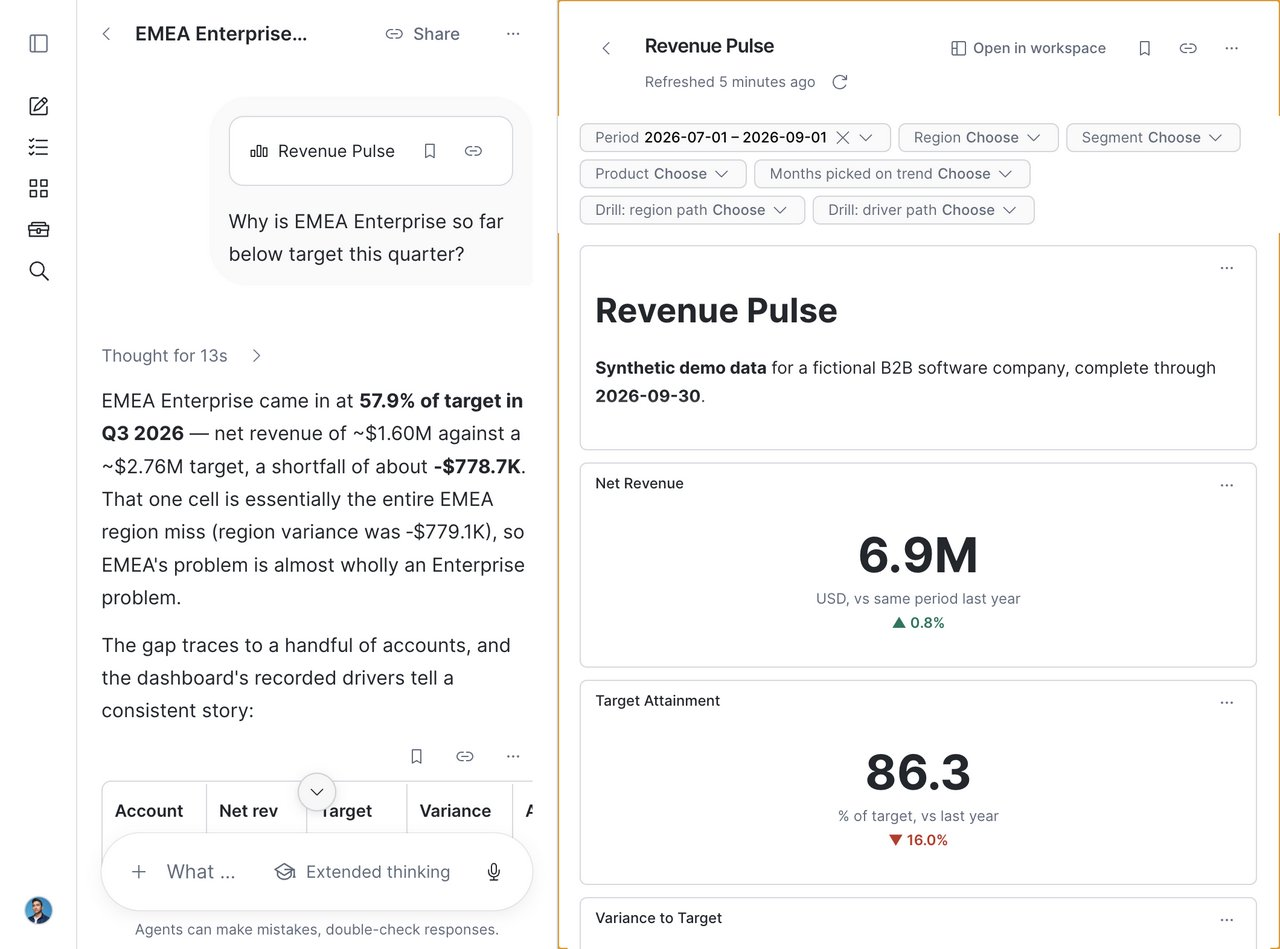
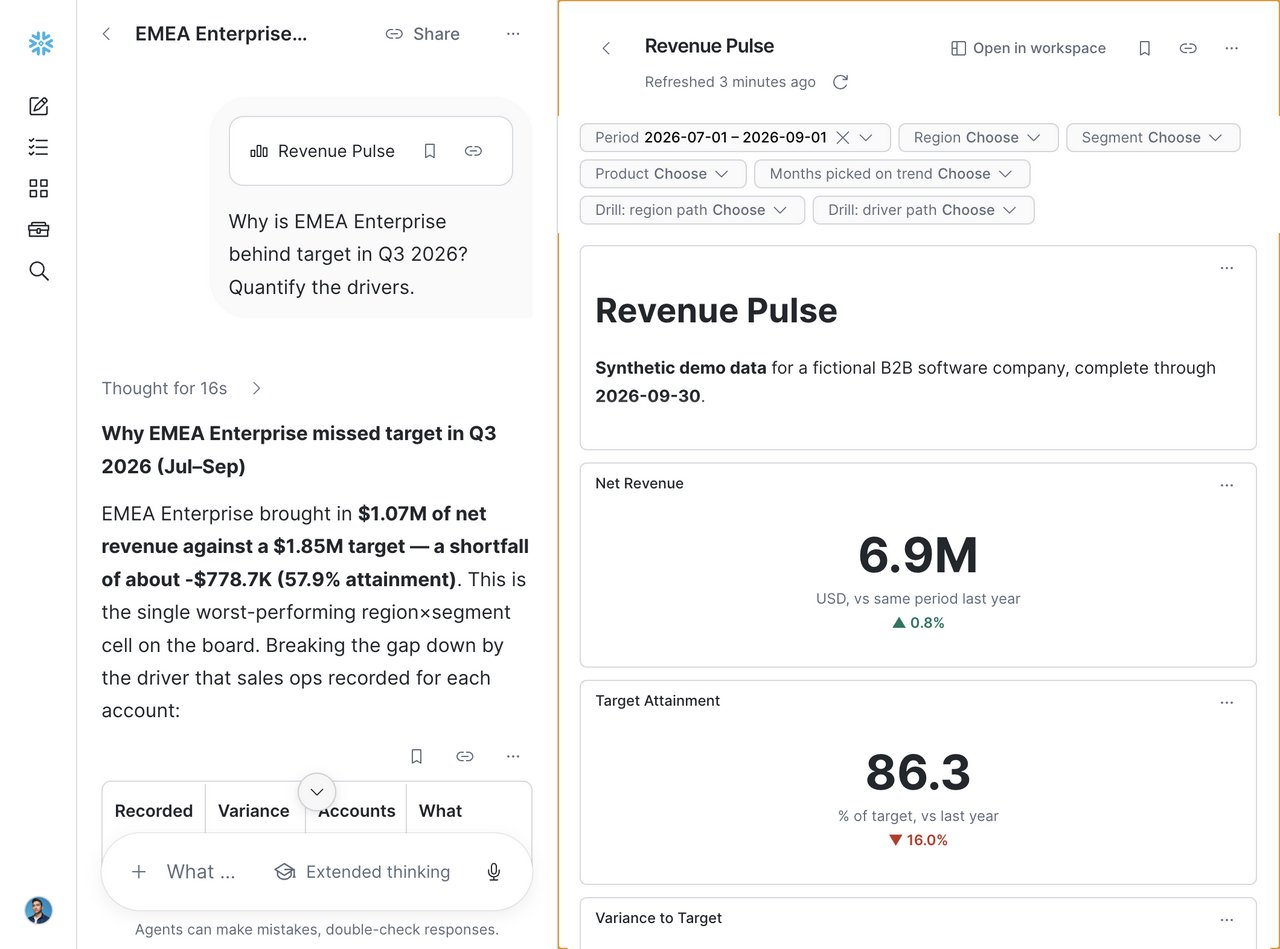
Retake follow-up screenshot with the guide's exact question

diff --git a/quickstart/build-a-revenue-dashboard-with-snowflake-workspaces/build-a-revenue-dashboard-with-snowflake-workspaces.md b/quickstart/build-a-revenue-dashboard-with-snowflake-workspaces/build-a-revenue-dashboard-with-snowflake-workspaces.md
@@ -434,7 +434,7 @@ CoWork opens a chat with the dashboard docked beside it. It answers from the das
 
 ![CoWork follow-up chat with the dashboard docked](assets/cowork-follow-up.jpg)
 
-The chat runs on the left, and the dashboard stays docked on the right, so you can check the answer against the tiles. The screenshot shows a shorter version of the question, "Why is EMEA Enterprise so far below target this quarter?" The answer starts with the same numbers the heatmap shows: 57.9% of target, about $1.60M of net revenue against a $2.76M target, and a −$778.7K shortfall. It then notes that this one cell makes up nearly the entire EMEA miss of −$779.1K, and breaks the gap down by account in a table.
+The chat runs on the left, and the dashboard stays docked on the right, so you can check the answer against the tiles. The answer starts with the same numbers the heatmap shows: $1.07M of net revenue against a $1.85M target, a −$778.7K shortfall at 57.9% attainment. It then breaks the gap down by the driver sales ops recorded: a renewal delay at one account that booked $0 (≈ −$348.7K), contract downsizes at two accounts (≈ −$258.7K), discounts and service credits at two more (≈ −$182.0K), offset slightly by the one account above target (≈ +$10.7K).
 
 Verified against SQL, the expected answer is:
 
